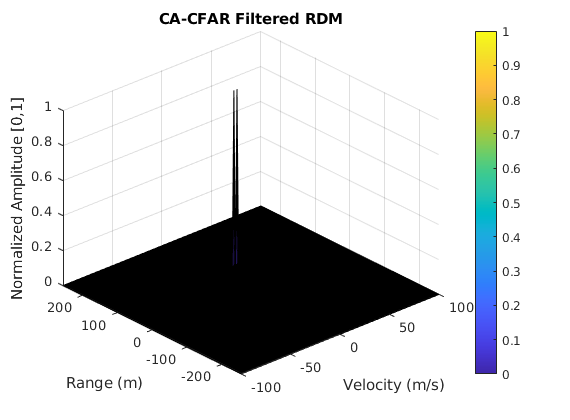
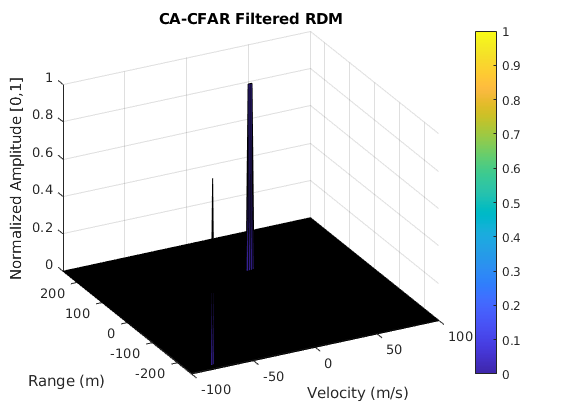
fix: lowered SNR and changed fig-3.png

diff --git a/Radar_Target_Generation_and_Detection.m b/Radar_Target_Generation_and_Detection.m
@@ -171,7 +171,7 @@ Gd = 3;
 
 % *%TODO* :
 % offset the threshold by SNR value in dB
-SNR = pow2db(2.1);
+SNR = pow2db(2.0);
 
 % *%TODO* :
 %Create a vector to store noise_level for each iteration on training cells
@@ -197,6 +197,9 @@ noise_level = zeros(1,1);
 max_element = max(max(RDM)); % max element in db
 RDM = RDM - max_element; % normalise in pow
 
+% total num of training cells
+num_T_cells = 2*(Td+Gd+1)*2*(Tr+Gr+1) - (2*Gr+1)*(2*Gd+1);
+
 % loop through all cells in range direction
 for i = Tr+Gr+1 : Nr/2-(Gr+Tr)
     % loop through all cells in doppler direction
@@ -213,8 +216,6 @@ for i = Tr+Gr+1 : Nr/2-(Gr+Tr)
             end
         end
         
-        % total num of training cells
-        num_T_cells = 2*(Td+Gd+1)*2*(Tr+Gr+1) - (2*Gr+1)*(2*Gd+1);
         % noise threshold
         noise_threshold = pow2db(noise_level/num_T_cells);
         %Add the SNR to the threshold

diff --git a/README.md b/README.md
@@ -88,7 +88,7 @@ The larger the number of guard cells, more neighboring cells will be excluded in
 **SNR (Offset): ** 
 
 ```matlab
-SNR = pow2db(2.1);
+SNR = pow2db(2.0);
 ```
 
 The larger the SNR value is, the higher the threshold is, and less targets remains after the filtering
